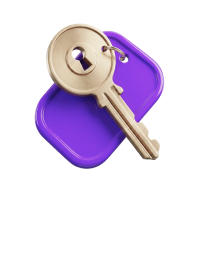
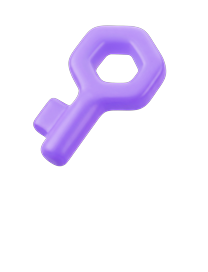
Магазин: новая иконка ключа в наградах сундука и на экране полученных наград
Claude-Session: https://claude.ai/code/session_01TenupW3u9epeZyrRHWy97w

Changed region(s): [[0.1442, 0.0882, 0.8077, 0.6471]]

diff --git a/docs/readme.md b/docs/readme.md
@@ -1095,7 +1095,7 @@ anime.animate(target, {
 
 #### Магазин: новый ключ и награда «Оформление» (Figma 16963:60023, 18003:36096)
 
-- **Иконка ключа** заменена на фиолетовый ключ из макета (компонент «Ключ», 16963:60023) — `assets/shop-key-192.png`, тот же файл, поэтому меняется везде: балансы, кнопки цены, «Не хватает N ключей», полёт ключей. Картинка награды «Ключи» в карточке сундука (`shop-prize2-keys.png`) осталась прежней — она из раздела «Награды» макета.
+- **Иконка ключа** заменена на фиолетовый ключ из макета (компонент «Ключ», 16963:60023) — `assets/shop-key-192.png`, тот же файл, поэтому меняется везде: балансы, кнопки цены, «Не хватает N ключей», полёт ключей. Картинка награды «Ключи» (`assets/shop-prize2-keys.png`) тоже заменена на фиолетовый ключ из макета (вариант «Награда=Ключ», 17056:193637): она показывается и в списке «Награды в сундуке», и на экране полученных наград; холст прежний 208×272, ключ на месте старого.
 - **Награда «Оформление»** — одно из четырёх с равным шансом (`STYLE_KINDS` и `makeReward()` в `js/shop.js`): рубашка колоды или рамка аватара (случайная из каталога), аватар (случайный из `assets/avatars-sq`) или статус (случайный из списка статусов профиля). На экране наград показывается сам предмет 72×72 (`.lb-style` в `css/shop.css`): рубашка, рамка — только сама рамка без аватара (внутри чёрное, как в настройках профиля), аватар; статус — иконкой-лентой из макета на всю ячейку (`assets/shop-prize2-status.png`). Подпись: «Рубашка карты», «Рамка аватара», «Аватар», «Статус». Так же в сундуке заданий (еженедельном).
 - В карточке сундука подпись «Оформление» — «Рубашка, рамка, аватар или статус», тултип — «Одно из оформлений: рубашка колоды, рамка аватара, аватар или статус».
 - По смыслу (в макете нет): размер и положение рубашки, рамки и аватара в ячейке; какой именно статус выпал, на экране не пишется. Выпавшее оформление пока никуда не записывается — в профиле и так доступен весь каталог.
